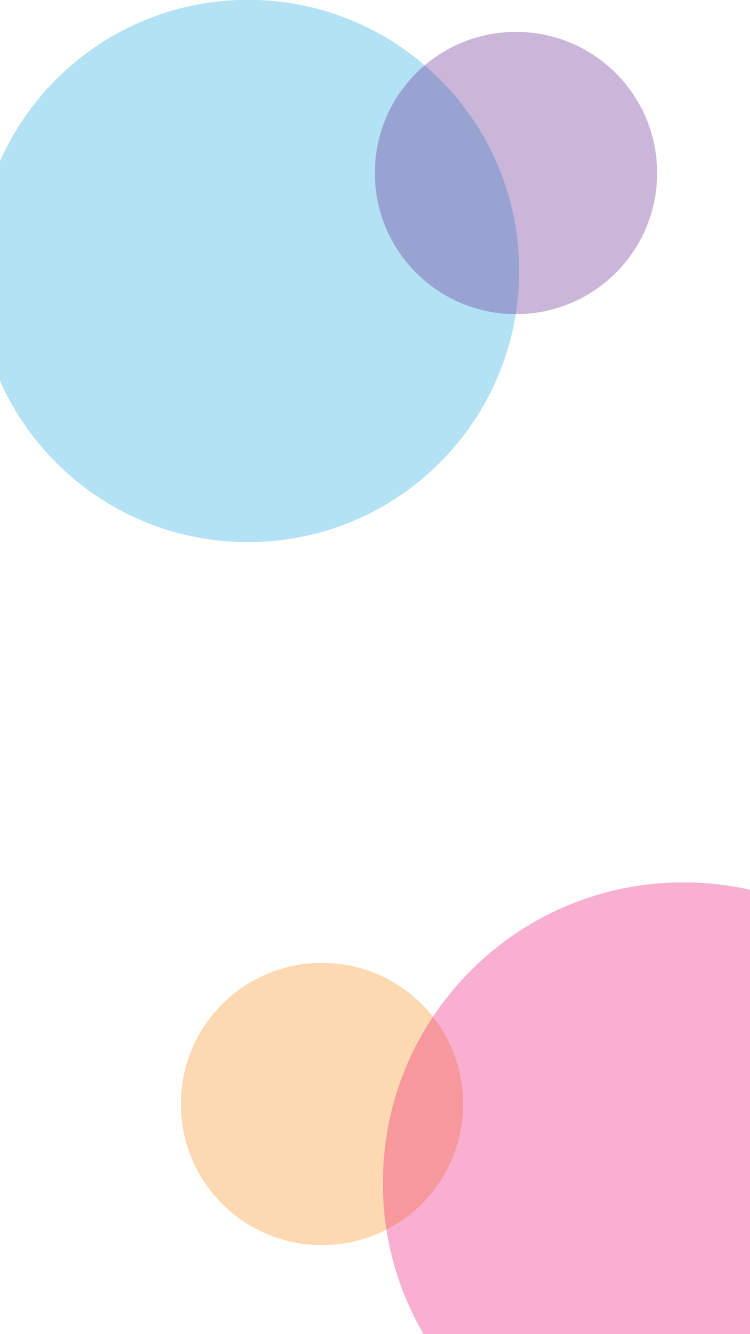
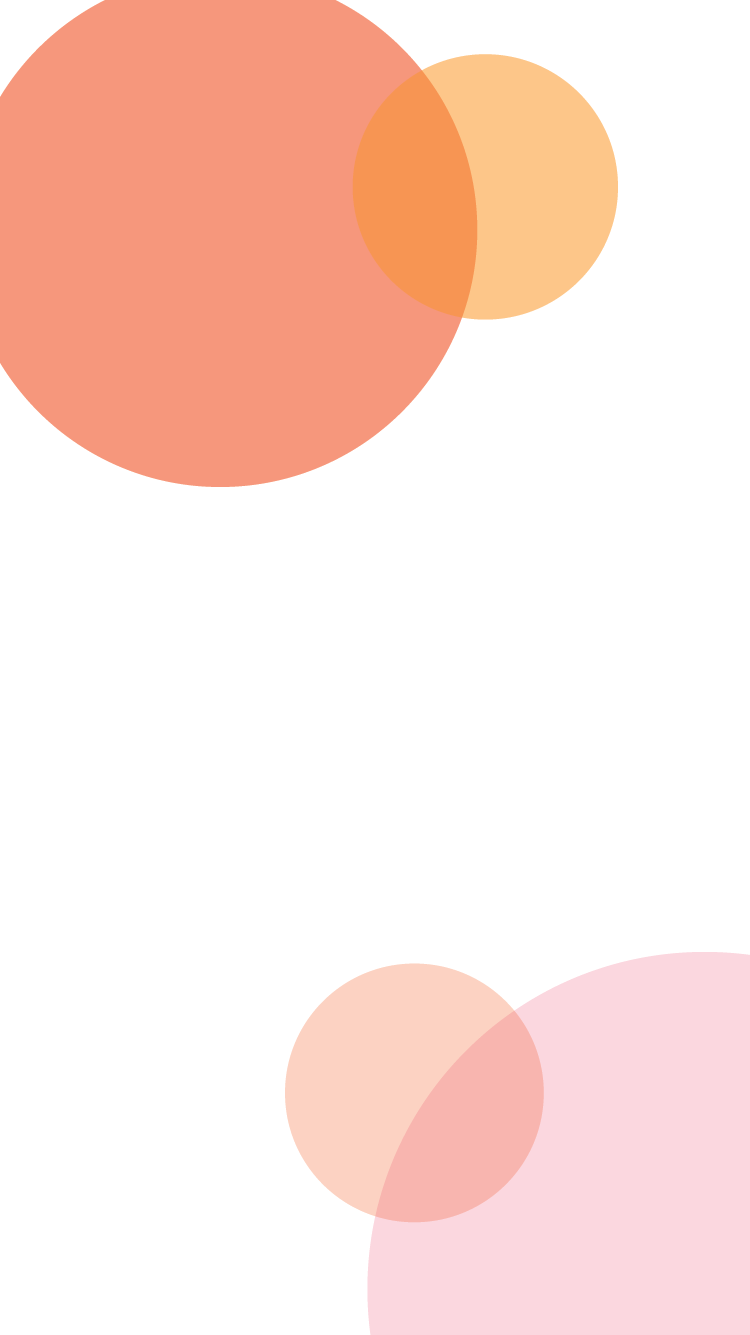
Update iOS deployment target to 15.5

diff --git a/lib/screens/account_screen.dart b/lib/screens/account_screen.dart
@@ -1,11 +1,11 @@
 import 'package:flutter/material.dart';
+import 'package:flutter_pkgscan_new/services/auth_service.dart';
+import 'package:flutter_pkgscan_new/widgets/custom_fields.dart';
 import 'package:flutter_spinkit/flutter_spinkit.dart';
 import 'package:shared_preferences/shared_preferences.dart';
 
 import '../constants/app_colors.dart';
 import '../constants/text_constants.dart';
-import '../services/auth_service.dart';
-import '../widgets/custom_fields.dart';
 
 class AccountScreen extends StatefulWidget {
   const AccountScreen({super.key});
@@ -56,7 +56,7 @@ class _AccountScreenState extends State<AccountScreen> {
       Navigator.pushNamedAndRemoveUntil(
         context,
         '/signUpWithScreen',
-            (Route<dynamic> route) => false,
+        (Route<dynamic> route) => false,
       );
     } catch (e) {
       setState(() {
@@ -173,9 +173,9 @@ class _AccountScreenState extends State<AccountScreen> {
 
   Widget _buildProfileFields() {
     final TextEditingController _userNameController =
-    TextEditingController(text: userName);
+        TextEditingController(text: userName);
     final TextEditingController _emailController =
-    TextEditingController(text: userEmail);
+        TextEditingController(text: userEmail);
     return Column(
       crossAxisAlignment: CrossAxisAlignment.start,
       children: [
@@ -235,24 +235,24 @@ class _AccountScreenState extends State<AccountScreen> {
         ),
         _buildDivider(),
         if(!isGuestMode)...{
-          _buildTile(
-              icon: Icons.password,
-              title: TextConstants.changePassword,
-              iconColor: AppColors.primaryColor,
-              textColor: AppColors.primaryColor,
-              onTap: () async {
-                setState(() {
-                  isChangePasswordWaiting = true;
-                });
+        _buildTile(
+            icon: Icons.password,
+            title: TextConstants.changePassword,
+            iconColor: AppColors.primaryColor,
+            textColor: AppColors.primaryColor,
+            onTap: () async {
+              setState(() {
+                isChangePasswordWaiting = true;
+              });
 
-                await _authService.forgotPassword(userEmail, context);
+              await _authService.forgotPassword(userEmail, context);
 
-                setState(() {
-                  isChangePasswordWaiting = false;
-                });
-              },
-              isLoading: isChangePasswordWaiting),
-          const SizedBox(height: _spacingSmall),},
+              setState(() {
+                isChangePasswordWaiting = false;
+              });
+            },
+            isLoading: isChangePasswordWaiting),
+        const SizedBox(height: _spacingSmall),},
         if(isGuestMode)...{
           _buildTile(
             icon: Icons.login,
@@ -273,18 +273,18 @@ class _AccountScreenState extends State<AccountScreen> {
           onTap: () {
             isGuestMode == false ?
             AuthService().logout(context)
-                : AuthService().logoutGuestMode(context);
+            : AuthService().logoutGuestMode(context);
           },
         ),
         if(!isGuestMode)
           ...{
-            _buildDivider(),
-            _buildTile(
-                icon: Icons.delete_forever_rounded,
-                title: TextConstants.deleteYourAccount,
-                iconColor: AppColors.errorColor,
-                textColor: AppColors.errorColor,
-                onTap: () => showModalBottomSheet(
+        _buildDivider(),
+        _buildTile(
+            icon: Icons.delete_forever_rounded,
+            title: TextConstants.deleteYourAccount,
+            iconColor: AppColors.errorColor,
+            textColor: AppColors.errorColor,
+            onTap: () => showModalBottomSheet(
                   isScrollControlled: true,
                   // Modal'ın boyutunu klavyeye göre ayarlamak için
                   context: context,
@@ -316,12 +316,12 @@ class _AccountScreenState extends State<AccountScreen> {
                                 prefixIconColor: AppColors.primaryColor,
                                 hintText: TextConstants.password,
                                 hintStyle:
-                                Theme.of(context).textTheme.displayMedium,
+                                    Theme.of(context).textTheme.displayMedium,
                                 border: OutlineInputBorder(
                                   borderRadius: BorderRadius.circular(30),
                                   // Oval kenarlık
                                   borderSide:
-                                  const BorderSide(color: Colors.grey),
+                                      const BorderSide(color: Colors.grey),
                                 ),
                                 contentPadding: const EdgeInsets.symmetric(
                                   horizontal: 20,
@@ -344,8 +344,8 @@ class _AccountScreenState extends State<AccountScreen> {
                                         .textTheme
                                         .displayMedium
                                         ?.copyWith(
-                                      color: AppColors.errorColor,
-                                    ),
+                                          color: AppColors.errorColor,
+                                        ),
                                   ),
                                 ),
                                 TextButton(
@@ -356,8 +356,8 @@ class _AccountScreenState extends State<AccountScreen> {
                                         .textTheme
                                         .displayMedium
                                         ?.copyWith(
-                                      color: AppColors.successColor,
-                                    ),
+                                          color: AppColors.successColor,
+                                        ),
                                   ),
                                 ),
                               ],
@@ -408,12 +408,12 @@ class _AccountScreenState extends State<AccountScreen> {
             const SizedBox(width: 16),
             isLoading == false || isLoading == null
                 ? Text(
-              title,
-              style: Theme.of(context).textTheme.displayLarge?.copyWith(
-                color: textColor,
-                fontWeight: FontWeight.w400,
-              ),
-            )
+                    title,
+                    style: Theme.of(context).textTheme.displayLarge?.copyWith(
+                          color: textColor,
+                          fontWeight: FontWeight.w400,
+                        ),
+                  )
                 : SpinKitFadingCircle(
               color: AppColors.primaryColor,
               size: 25.0,

diff --git a/lib/widgets/dialogs/manifest_settings_dialog.dart b/lib/widgets/dialogs/manifest_settings_dialog.dart
@@ -56,7 +56,7 @@ Future<void> showManifestSettingsDialog({
                     initialDescription,
                     onTapSave,
                     isGuestMode,
-                    manifestBox!,
+                    manifestBox,
                   );
                 },
               ),
@@ -91,7 +91,8 @@ void showEditManifestDialog(
     String initialDescription,
     VoidCallback onTap,
     bool isGuestMode,
-    Box<Manifest> manifestBox) {
+    Box<Manifest>? manifestBox
+    ) {
   final TextEditingController nameController =
       TextEditingController(text: initialName);
   final TextEditingController descriptionController =
@@ -172,20 +173,26 @@ void showEditManifestDialog(
                   TextButton(
                     onPressed: () async {
                       // Verilerinizi kaydedin
-                      isGuestMode == false
-                          ? await ManifestService().editManifest(
-                              context,
-                              manifestId,
-                              nameController.text.trim(),
-                              descriptionController.text.trim(),
-                            )
-                          : ManifestService().editManifestInLocalStorage(
-                              context,
-                              manifestId,
-                              nameController.text,
-                              descriptionController.text,
-                              manifestBox,
-                            );
+                      await ManifestService().editManifest(
+                        context,
+                        manifestId,
+                        nameController.text.trim(),
+                        descriptionController.text.trim(),
+                      );
+                      // isGuestMode == false
+                      //     ? await ManifestService().editManifest(
+                      //         context,
+                      //         manifestId,
+                      //         nameController.text.trim(),
+                      //         descriptionController.text.trim(),
+                      //       )
+                      //     : ManifestService().editManifestInLocalStorage(
+                      //         context,
+                      //         manifestId,
+                      //         nameController.text,
+                      //         descriptionController.text,
+                      //         manifestBox,
+                      //       );
                       Navigator.of(context).pop(); // Diyalog kutusunu kapat
                       onTap();
                     },

diff --git a/lib/constants/app_colors.dart b/lib/constants/app_colors.dart
@@ -1,8 +1,8 @@
 import 'package:flutter/material.dart';
 
 class AppColors {
-  static const Color primaryColor = Color(0xFF9100EC); // Ana renk
-  static const Color secondaryColor = Color(0xFFF2DEFF);
+  static const Color primaryColor = Color(0xFFD50000); // Ana renk
+  static const Color secondaryColor = Color(0xFFFFDEDE);
   static const Color backgroundColor = Color(0xFFFFFFFF);
   static const Color textColor = Color(0xFF494949);
   static const Color secondaryTextColor = Color(0xFF828282);
@@ -19,20 +19,16 @@ class AppColors {
   static const Color lightGray = Color(0xFFBDBDBD);
   static const Color darkGray = Color(0xFF1E1E1E);
 
-  // Primary Swatch (MaterialColor)
-  static MaterialColor primarySwatch = MaterialColor(
-    0xFF9100EC,
-    <int, Color>{
-      50: Color(0xFFF3E5FF), // Açık ton
-      100: Color(0xFFE1BFFF),
-      200: Color(0xFFCE99FF),
-      300: Color(0xFFBB73FF),
-      400: Color(0xFFA653FF),
-      500: Color(0xFF9100EC), // Ana renk
-      600: Color(0xFF8300D4),
-      700: Color(0xFF7300B8),
-      800: Color(0xFF64009C),
-      900: Color(0xFF4D0075), // Koyu ton
-    },
-  );
+  static MaterialColor primarySwatch = MaterialColor(0xFF9100EC, <int, Color>{
+    50: Color(0xFFFCD1D1),
+    100: Color(0xFFFAB9B9),
+    200: Color(0xFFFA9595),
+    300: Color(0xFFFA7171),
+    400: Color(0xFFFA5151),
+    500: Color(0xFFE70101),
+    600: Color(0xFFD20101),
+    700: Color(0xFFB70202),
+    800: Color(0xFF9B0101),
+    900: Color(0xFF770101),
+  });
 }

diff --git a/lib/main.dart b/lib/main.dart
@@ -52,6 +52,7 @@ class MyApp extends StatelessWidget {
         appBarTheme: const AppBarTheme(
           elevation: 0,
           toolbarHeight: 90,
+          backgroundColor: AppColors.primaryColor
         ),
         primaryColor: AppColors.primaryColor,
         primarySwatch: AppColors.primarySwatch,
@@ -124,7 +125,6 @@ class MyApp extends StatelessWidget {
     );
   }
 }
-
 
 class MainScreen extends StatefulWidget {
   const MainScreen({super.key});

diff --git a/lib/widgets/manifests_tile.dart b/lib/widgets/manifests_tile.dart
@@ -1,4 +1,6 @@
 import 'package:flutter/material.dart';
+import 'package:flutter_pkgscan_new/widgets/outlined_custom_tile.dart';
+
 import '../constants/app_colors.dart';
 
 class ManifestsTile extends StatefulWidget {
